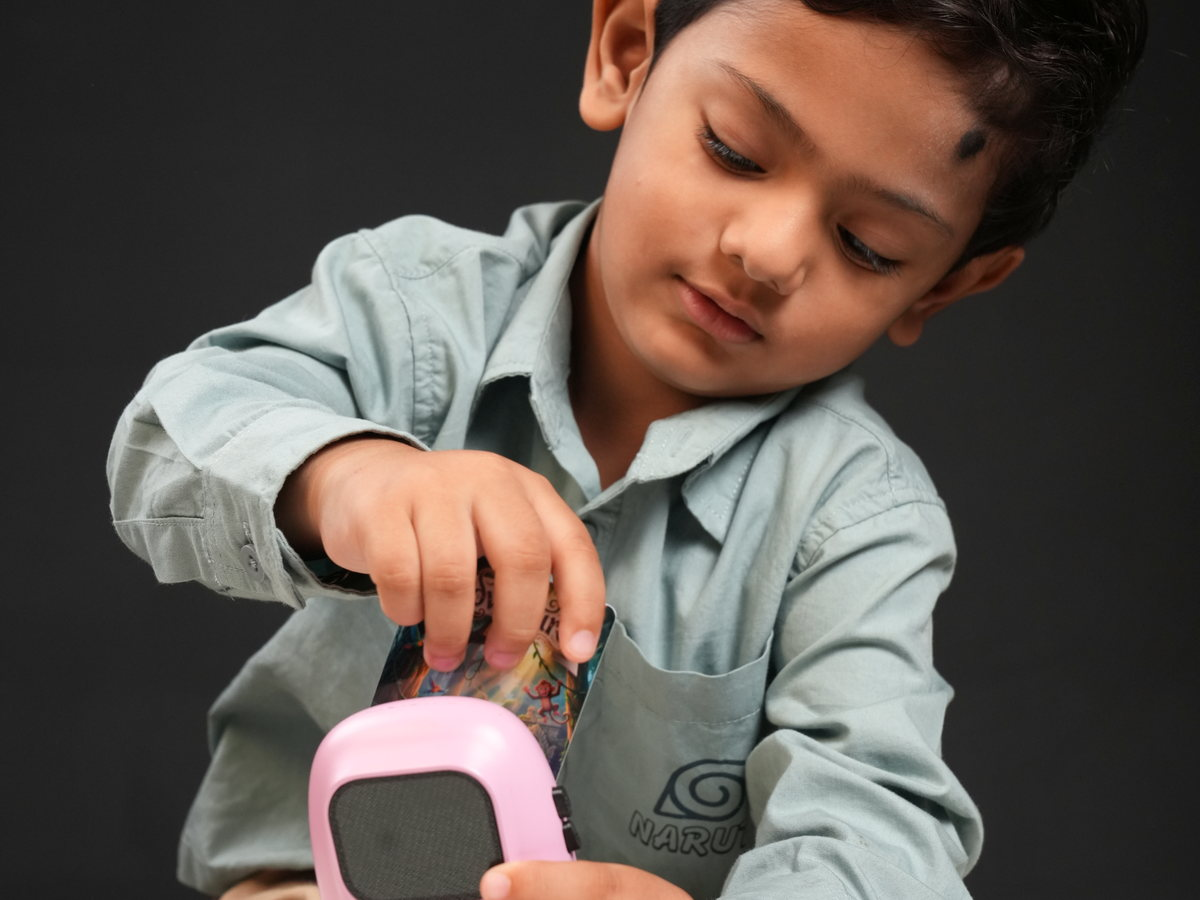
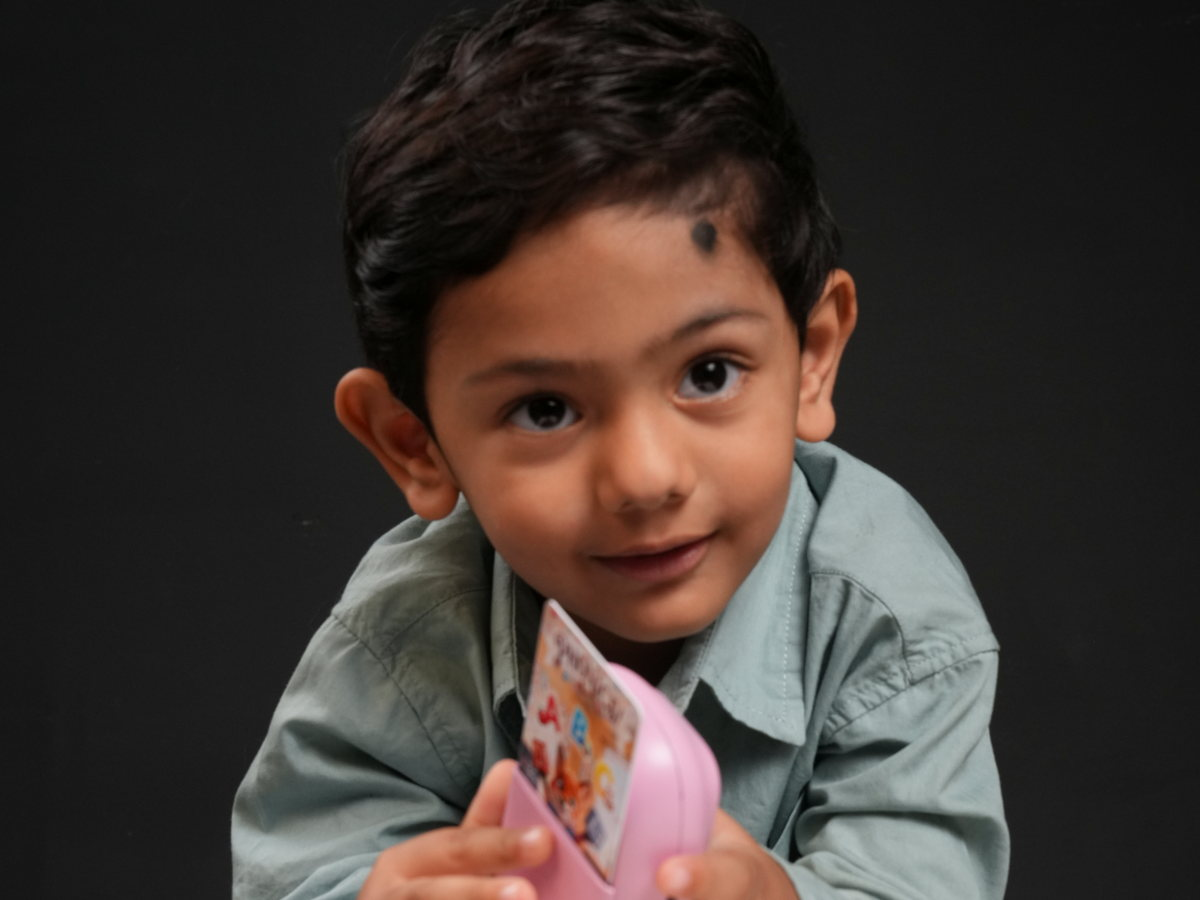
Hero and gallery use frames where the product reads clearly: three children in the hero, eight more below

diff --git a/index.html b/index.html
@@ -85,9 +85,9 @@
       </div>
     </div>
     <div class="th-photo">
-      <div class="slide on"><img src="assets/img/live/hero-1.jpg" width="1200" height="900" alt="A girl smiling as she holds her yellow Cheeko at home" fetchpriority="high" /></div>
-      <div class="slide"><img src="assets/img/live/hero-2.jpg" width="1200" height="900" alt="A boy carefully sliding a story card into his pink Cheeko" /></div>
-      <div class="slide"><img src="assets/img/live/hero-3.jpg" width="1200" height="900" alt="A family on the floor together, one child playing her Cheeko while her little brother reaches over" /></div>
+      <div class="slide on"><img src="assets/img/live/hero-1.jpg" width="1200" height="900" alt="A girl holding out her yellow Cheeko while her parents smile behind her" fetchpriority="high" /></div>
+      <div class="slide"><img src="assets/img/live/hero-2.jpg" width="1200" height="900" alt="A boy holding his pink Cheeko and a story card" /></div>
+      <div class="slide"><img src="assets/img/live/hero-3.jpg" width="1200" height="900" alt="A mother laughing as her little boy reaches for the yellow Cheeko" /></div>
       <div class="cn-dots" aria-hidden="true"><i class="on"></i><i></i><i></i></div>
     </div>
   </div>
@@ -534,10 +534,14 @@
       <p class="sub" style="margin:6px 0 0;">How kids and parents make Cheeko part of their day.</p>
     </div>
     <div class="grid4">
-      <div class="photo-card rv"><img src="assets/img/live/mom-daughter.jpg" alt="A mother and daughter laughing with their Cheeko" loading="lazy" /></div>
-      <div class="photo-card rv"><img src="assets/img/live/s2-child-holding.jpg" alt="A child holding Cheeko" loading="lazy" /></div>
-      <div class="photo-card rv"><img src="assets/img/live/mom-reading.jpg" alt="A mother reads while her daughter plays with Cheeko" loading="lazy" /></div>
-      <div class="photo-card rv"><img src="assets/img/live/studio-yellow.jpg" alt="The yellow Cheeko device, studio shot" loading="lazy" /></div>
+      <div class="photo-card rv"><img src="assets/img/live/use-1.jpg" alt="A girl holding her yellow Cheeko in both hands" loading="lazy" /></div>
+      <div class="photo-card rv"><img src="assets/img/live/use-2.jpg" alt="A boy holding his pink Cheeko up to his face" loading="lazy" /></div>
+      <div class="photo-card rv"><img src="assets/img/live/use-3.jpg" alt="A girl pressing the button on her yellow Cheeko" loading="lazy" /></div>
+      <div class="photo-card rv"><img src="assets/img/live/use-4.jpg" alt="The pink Cheeko with the story cards fanned beside it" loading="lazy" /></div>
+      <div class="photo-card rv"><img src="assets/img/live/use-5.jpg" alt="A boy reaching for his Cheeko on the bookshelf" loading="lazy" /></div>
+      <div class="photo-card rv"><img src="assets/img/live/use-6.jpg" alt="A boy laughing with his pink Cheeko and a card" loading="lazy" /></div>
+      <div class="photo-card rv"><img src="assets/img/live/use-7.jpg" alt="A girl looking down at the Cheeko screen" loading="lazy" /></div>
+      <div class="photo-card rv"><img src="assets/img/live/use-9.jpg" alt="A girl holding the Cheeko close to listen" loading="lazy" /></div>
     </div>
   </div>
 </section>
